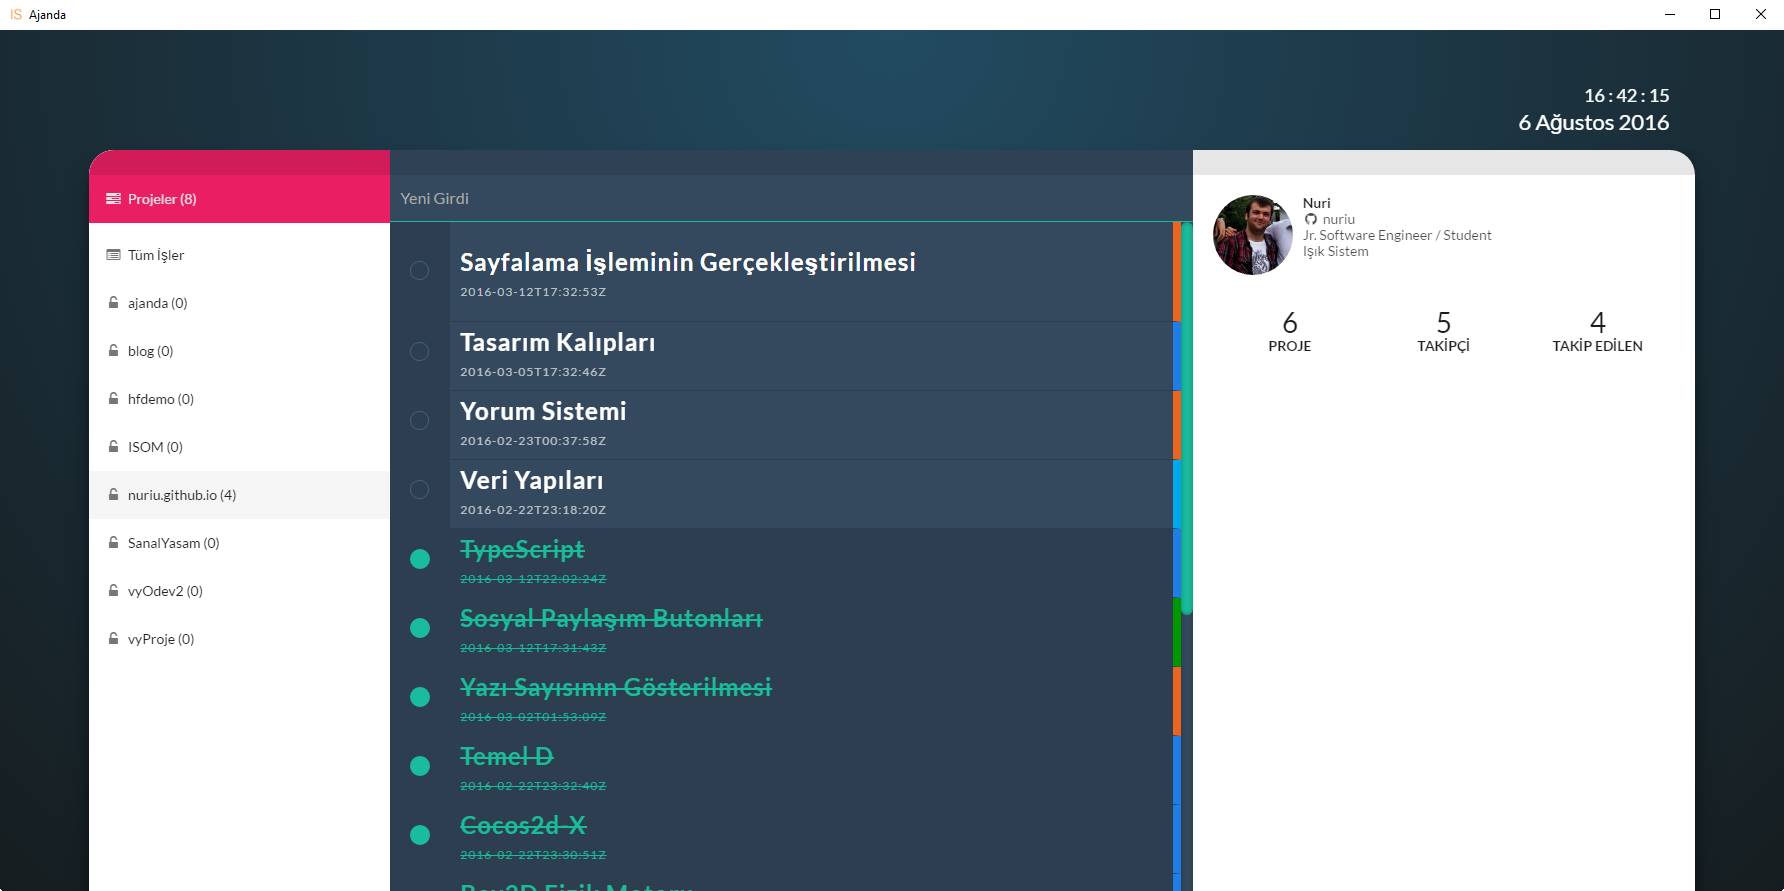
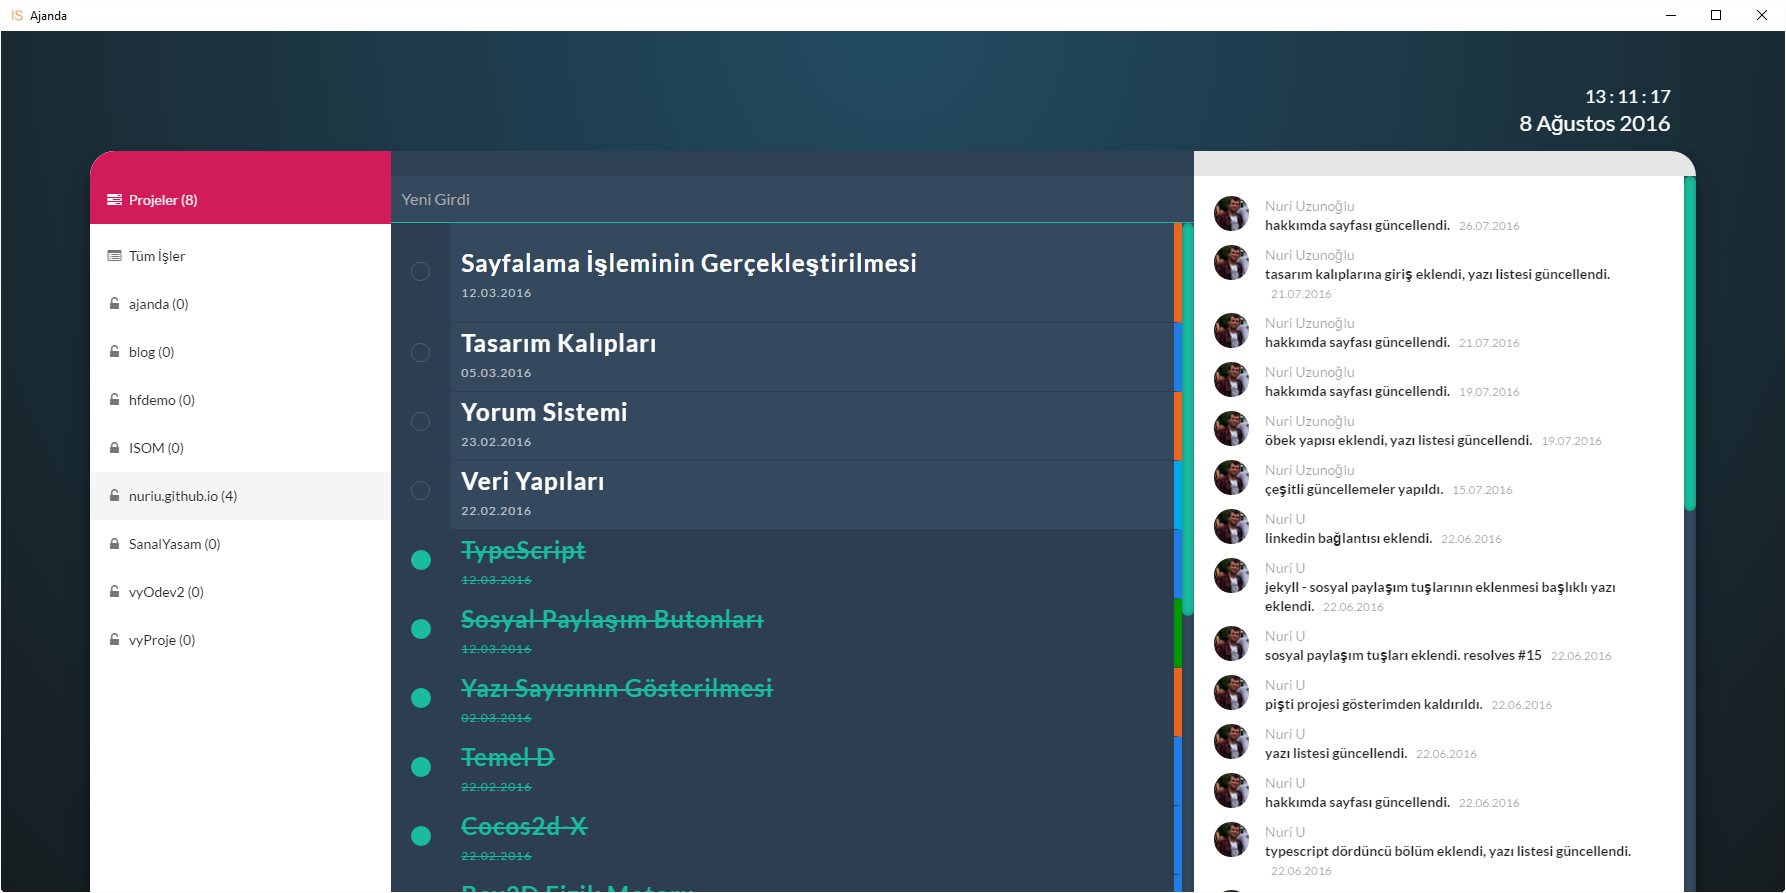
Aktif projeye ait katkılar gösterildi, tarih formatı düzenlendi.

diff --git a/app/src/github.ts b/app/src/github.ts
@@ -17,7 +17,9 @@ var db2 = new SQL.Database(fb2);
 var aktifProje: string;
 
 $(document).ready(function () {
-    document.getElementById("projeListesi").innerHTML = "<li class='active' id='tumIsler' onclick='aktifProjeyiDegistir(this.id)'><a href='#'><i class='browser icon'></i> Tüm İşler</a></li>";
+    document.getElementById("projeListesi").innerHTML = "\
+    <li class='active' id='tumIsler' onclick='aktifProjeyiDegistir(this.id)'>\
+    <a href='#'><i class='browser icon'></i> Tüm İşler</a></li>";
 
     aktifProje = "tumIsler";
 
@@ -33,14 +35,14 @@ $(document).ready(function () {
 });
 
 function gitHubGirisYap() {
-    var self = this;
-    var secenekler = {
+    let self = this;
+    let secenekler = {
         istemci_id: db2.exec("SELECT * FROM AJANDA")[0].values[0][0],
         istemci_sir: db2.exec("SELECT * FROM AJANDA")[0].values[0][1],
         kapsamlar: ["repo", "user", "notifications", "gist"]
     };
 
-    var dogrulamaPenceresi = new BrowserWindow({
+    let dogrulamaPenceresi = new BrowserWindow({
         width: 1200,
         height: 720,
         show: false,
@@ -51,15 +53,15 @@ function gitHubGirisYap() {
 
     dogrulamaPenceresi.setMenu(null);
 
-    var githubUrl = "https://github.com/login/oauth/authorize?";
-    var dogrulamaUrl = githubUrl + "client_id=" + secenekler.istemci_id + "&scope=" + secenekler.kapsamlar;
+    let githubUrl = "https://github.com/login/oauth/authorize?";
+    let dogrulamaUrl = githubUrl + "client_id=" + secenekler.istemci_id + "&scope=" + secenekler.kapsamlar;
     dogrulamaPenceresi.loadURL(dogrulamaUrl);
     dogrulamaPenceresi.show();
 
     function cagriylaIlgilen(url: string) {
-        var ham_kod = /code=([^&]*)/.exec(url) || null;
-        var kod = (ham_kod && ham_kod.length > 1) ? ham_kod[1] : null;
-        var hata = /\?error=(.+)$/.exec(url);
+        let ham_kod = /code=([^&]*)/.exec(url) || null;
+        let kod = (ham_kod && ham_kod.length > 1) ? ham_kod[1] : null;
+        let hata = /\?error=(.+)$/.exec(url);
 
         if (kod || hata) {
             dogrulamaPenceresi.destroy();
@@ -149,13 +151,13 @@ function gitHubProfilBilgileriniYazdir() {
 function gitHubProjeListesiniYazdir() {
     if (PROJELER) {
         document.getElementById("projeListesiBaslik").innerHTML = "<i class='tasks icon'></i> Projeler (" + PROJELER.length + ")";
-        for (var i = 0; i < PROJELER.length; i++) {
+        for (let i = 0; i < PROJELER.length; i++) {
             if (PROJELER[i].private) {
-                document.getElementById("projeListesi").innerHTML += "<li id='" + PROJELER[i].name + "' onclick='aktifProjeyiDegistir(this.id)'><a href='#'> <i class='lock icon'></i> "
-                    + PROJELER[i].name + " (" + PROJELER[i].open_issues_count + ")</a></li>";
+                document.getElementById("projeListesi").innerHTML += "<li id='" + PROJELER[i].name + "' onclick='aktifProjeyiDegistir(this.id)'>\
+                <a href='#'> <i class='lock icon'></i> " + PROJELER[i].name + " (" + PROJELER[i].open_issues_count + ")</a></li>";
             } else {
-                document.getElementById("projeListesi").innerHTML += "<li id='" + PROJELER[i].name + "' onclick='aktifProjeyiDegistir(this.id)'><a href='#'> <i class='unlock alternate icon'></i> "
-                    + PROJELER[i].name + " (" + PROJELER[i].open_issues_count + ")</a></li>";
+                document.getElementById("projeListesi").innerHTML += "<li id='" + PROJELER[i].name + "' onclick='aktifProjeyiDegistir(this.id)'>\
+                <a href='#'> <i class='unlock alternate icon'></i> " + PROJELER[i].name + " (" + PROJELER[i].open_issues_count + ")</a></li>";
             }
         }
     }
@@ -170,18 +172,20 @@ function aktifProjeyiDegistir(projeAdi: string) {
 
     if (projeAdi != "tumIsler") {
         projeninIsleriniYazdir();
+        projeninKatkilariniYazdir();
+    } else {
+        gitHubProfilBilgileriniYazdir();
     }
 }
 
 function projeninIsleriniYazdir() {
-
     document.getElementById("siralanabilir").innerHTML = "<li><label><h2>Yükleniyor...</h2></label></li>";
     let ifade: string = "<li>";
 
     gh.getIssues(KULLANICI.login, aktifProje).listIssues({
         state: "open"
     }, function (hata: string, isler: any) {
-        for (var i = 0; i < isler.length; i++) {
+        for (let i = 0; i < isler.length; i++) {
             ifade += "<input id='" + isler[i].id + "' type='checkbox' />";
 
             if (isler[i].labels.length > 0) {
@@ -190,15 +194,14 @@ function projeninIsleriniYazdir() {
                 ifade += "<label for='" + isler[i].id + "'>";
             }
 
-            ifade += "<h2>" + isler[i].title + "<span>" + isler[i].created_at + "</span></h2></label></li>";
+            ifade += "<h2>" + isler[i].title + "<span>" + gitHubTarihi(isler[i].created_at) + "</span></h2></label></li>";
         }
     });
 
     gh.getIssues(KULLANICI.login, aktifProje).listIssues({
         state: "closed"
     }, function (hata: string, isler: any) {
-        for (var i = 0; i < isler.length; i++) {
-
+        for (let i = 0; i < isler.length; i++) {
             ifade += "<input id='" + isler[i].id + "' type='checkbox' checked />";
 
             if (isler[i].labels.length > 0) {
@@ -207,8 +210,51 @@ function projeninIsleriniYazdir() {
                 ifade += "<label for='" + isler[i].id + "'>";
             }
 
-            ifade += "<h2>" + isler[i].title + "<span>" + isler[i].created_at + "</span></h2></label></li>";
+            ifade += "<h2>" + isler[i].title + "<span>" + gitHubTarihi(isler[i].created_at) + "</span></h2></label></li>";
         }
         document.getElementById("siralanabilir").innerHTML = ifade;
     });
+}
+
+function projeninKatkilariniYazdir() {
+    let ifade: string = "<div class='ui feed'>";
+    gh.getRepo(KULLANICI.login, aktifProje).listCommits({
+
+    }, function(hata: string, katkilar: any){
+        console.log(katkilar);
+        
+        for (let i = 0; i < katkilar.length; i++) {
+            ifade += "\
+            <div class='event'>\
+                <div class='label'><img src='" + katkilar[i].author.avatar_url + "'></div>\
+                <div class='content'>\
+                    <div class='date'>" + katkilar[i].commit.committer.name + "</div>\
+                    <div class='summary'>" + katkilar[i].commit.message + "\
+                        <div class='date'>" + gitHubTarihi(katkilar[i].commit.committer.date) + "</div>\
+                    </div>\
+                </div>\
+            </div>";
+        }
+        ifade += "</div>";
+        document.getElementById("github").innerHTML = ifade;
+    });
+}
+
+function gitHubTarihi(tarih: string) {
+    let ay: string = "", gun: string = "", yil: string = ""; 
+    for (let i = 0; i < tarih.length; i++) {
+        if (tarih[i] != "-") {
+            if (i >= 0 && i < 4) {
+                yil += tarih[i];
+            } else if (i >= 0 && i < 7) {
+                ay += tarih[i];
+            } else if (i >= 0 && i < 10) {
+                gun += tarih[i];
+            } else {
+                continue;
+            }
+        }
+    }
+    tarih = gun + "." + ay + "." + yil;
+    return tarih;
 }

diff --git a/app/css/akis.css b/app/css/akis.css
@@ -27,4 +27,26 @@
 
 #github {
   padding: 20px;
+  overflow-y: auto;
+  height: 84.5vh;
+}
+
+#github::-webkit-scrollbar-track
+{
+	-webkit-box-shadow: inset 0 0 6px rgba(0,0,0,0.3);
+	border-radius: 10px;
+	background-color: #34495E;
+}
+
+#github::-webkit-scrollbar
+{
+	width: 12px;
+	background-color: #34495E;
+}
+
+#github::-webkit-scrollbar-thumb
+{
+	border-radius: 10px;
+	-webkit-box-shadow: inset 0 0 6px rgba(0,0,0,.3);
+  background-color: #1abc9c;
 }

diff --git a/app/src/ana.ts b/app/src/ana.ts
@@ -18,7 +18,7 @@ function createWindow() {
     anaPencere.loadURL(`file://${__dirname}/../ana.html`);
 
     anaPencere.webContents.openDevTools();
-    //anaPencere.setMenu(null);
+    anaPencere.setMenu(null);
 
     anaPencere.on('closed', function () {
         anaPencere = null;
